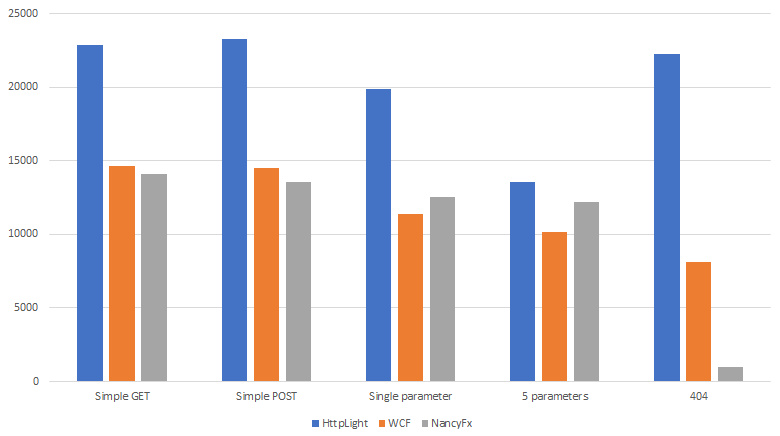
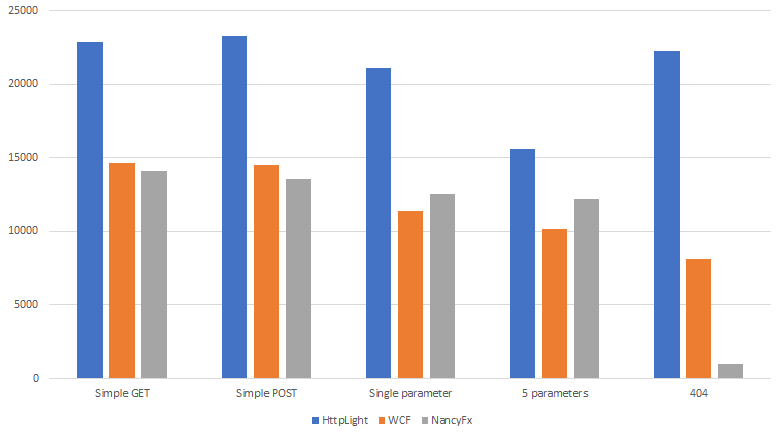
Binder factory performance improvement

diff --git a/src/HttpLight/ActionParameterBinderFactory.cs b/src/HttpLight/ActionParameterBinderFactory.cs
@@ -9,22 +9,40 @@ namespace HttpLight
 {
     internal class ActionParameterBinderFactory
     {
-        private IDictionary<Type, IActionParameterBinder> _cache;
+        private IDictionary<MethodParameter, IActionParameterBinder> _cache;
 
         public ActionParameterBinderFactory()
         {
-            _cache = new ConcurrentDictionary<Type, IActionParameterBinder>();
+            _cache = new ConcurrentDictionary<MethodParameter, IActionParameterBinder>();
         }
 
-        public IActionParameterBinder GetBinder(Type parameterType, Attribute[] parameterAttributes)
+        public IActionParameterBinder GetBinder(MethodParameter parameter)
         {
-            var binderAttribute = GetBinderAttribute(parameterAttributes);
+            var binder = LoadFromCache(parameter);
+            if (binder != null)
+                return binder;
+            var binderAttribute = GetBinderAttribute(parameter.Attributes);
             var binderType = binderAttribute != null
                 ? binderAttribute.Binder
-                : GetDefaultBinderFor(parameterType);
+                : GetDefaultBinderFor(parameter.Type);
             if (binderType == null)
                 return null;
-            return GetBinder(binderType);
+            binder = CreateBinder(binderType);
+            if (binder != null)
+                SaveToCache(parameter, binder);
+            return binder;
+        }
+
+        private IActionParameterBinder LoadFromCache(MethodParameter parameter)
+        {
+            IActionParameterBinder binder;
+            _cache.TryGetValue(parameter, out binder);
+            return binder;
+        }
+
+        private void SaveToCache(MethodParameter parameter, IActionParameterBinder binder)
+        {
+            _cache[parameter] = binder;
         }
 
         private BinderAttribute GetBinderAttribute(Attribute[] parameterAttributes)
@@ -39,13 +57,9 @@ namespace HttpLight
             return null;
         }
 
-        private IActionParameterBinder GetBinder(Type binderType)
+        private IActionParameterBinder CreateBinder(Type binderType)
         {
-            IActionParameterBinder binder;
-            if (_cache.TryGetValue(binderType, out binder))
-                return binder;
-            binder = (IActionParameterBinder) Activator.CreateInstance(binderType);
-            _cache[binderType] = binder;
+            var binder = (IActionParameterBinder) Activator.CreateInstance(binderType);
             return binder;
         }
     }

diff --git a/src/HttpLight/RequestStateMachine.cs b/src/HttpLight/RequestStateMachine.cs
@@ -283,7 +283,7 @@ namespace HttpLight
             for (var i = 0; i < action.Invoker.Parameters.Count; i++)
             {
                 var parameter = action.Invoker.Parameters[i];
-                var binder = _binderFactory.GetBinder(parameter.Type, parameter.Attributes);
+                var binder = _binderFactory.GetBinder(parameter);
                 if (binder != null)
                 {
                     result[i] = binder.Bind(new ActionParameterBinderContext

diff --git a/README.md b/README.md
@@ -13,13 +13,13 @@ HttpLight is designed to simplify the process of creating self-hosted high-loade
 
 ## Performance
 
-All measurements are made with [Apache JMeter](http://jmeter.apache.org/).
+All measurements are made with [Apache JMeter](http://jmeter.apache.org/) using 30 threads. Processed requests per second are listed in the table below.
 
 ![](https://raw.githubusercontent.com/imbelousov/HttpLight/master/images/performance.png)
 
 |                                                               | Simple GET | Simple POST | Single parameter | 5 parameters | 404   |
 |---------------------------------------------------------------|------------|-------------|------------------|--------------|-------|
-| [HttpLight](https://github.com/imbelousov/HttpLight)          | 22854      | 23252       | 19901            | 13591        | 22241 |
+| [HttpLight](https://github.com/imbelousov/HttpLight)          | 22854      | 23252       | 21105            | 15627        | 22241 |
 | [WCF](https://msdn.microsoft.com/en-us/library/bb907578.aspx) | 14679      | 14510       | 11406            | 10190        | 8111  |
 | [NancyFx](http://nancyfx.org/)                                | 14072      | 13533       | 12513            | 12206        | 1013  |
 
